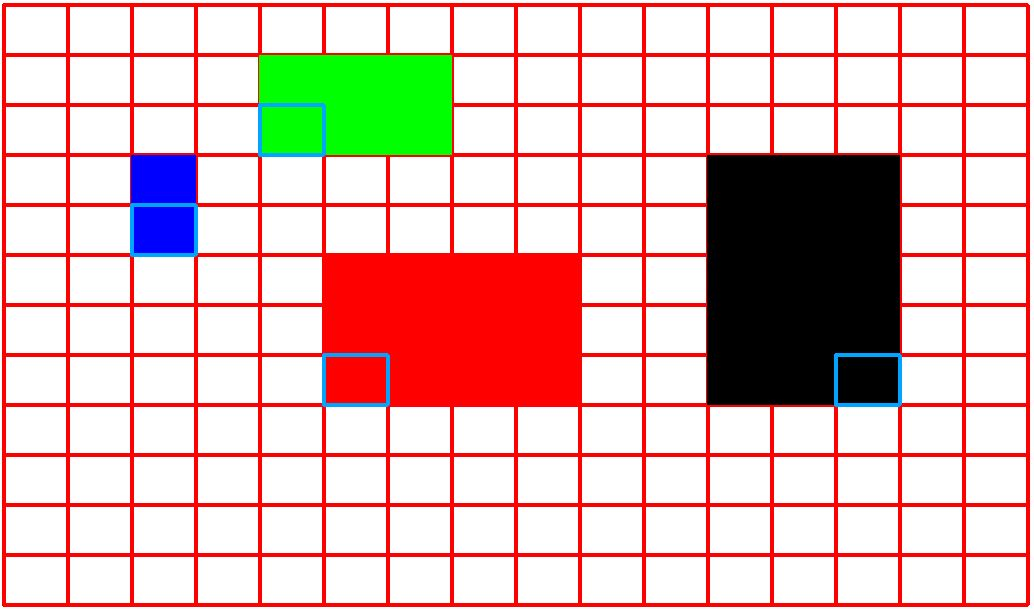
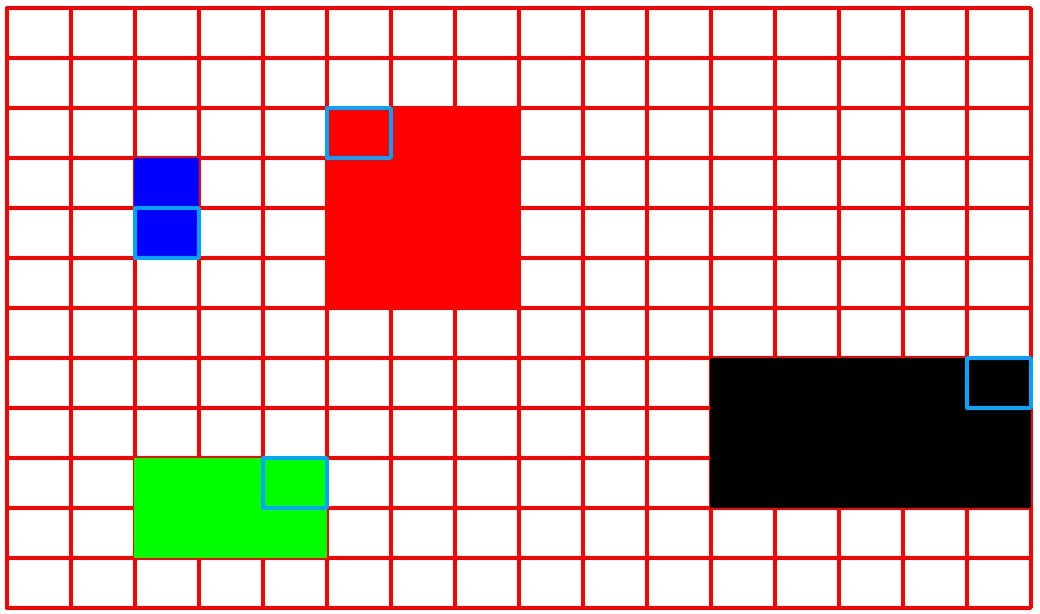
Dependency Creator

diff --git a/PythonCBS/All Codes/placer.py b/PythonCBS/All Codes/placer.py
@@ -30,13 +30,12 @@ THIS PLACEMENT METHOD IS ONLY APPLICABLE FOR RECTANGULAR JOBS THAT HAVE THE SAME
 CHUNKS IN EACH ROW AND COLUMN
 """
 # # inputs
-test_case = 'Tall Box 5 Jobs'
+test_case = 'Tall Box'
 num_robots = 4
 floor_size = [8,6]
-folder_name = "Tall_Box_5_Jobs"
+folder_name = "Tall_Box_Scale_1"
 
-robot_starting_positions_all = [[0,0],[1,0],[2,0],[3,0],[4,0],[5,0],[6,0],[7,0],[8,0],[9,0],[10,0],[11,0]]
-robot_starting_positions = robot_starting_positions_all[:num_robots]
+track_time = True
 
 if test_case == 'Tall Box':
     # four equal jobs of 6 chunks
@@ -47,6 +46,58 @@ if test_case == 'Tall Box':
     chunk_print_time = [2253., 1899., 2253., 1899., 2253., 1899., 2253., 1899.,\
                         2929., 2490., 2929., 2490., 2929., 2490., 2929., 2490.,  \
                         1429., 1236., 1429., 1236., 1429., 1236., 1429., 1236.]
+        
+elif test_case == 'Tall Box .5x':
+    #Scaled x1.5
+    chunk_dependencies = [[], [0], [], [2], [0], [1, 4], [2], [3, 6], [4], [5, 8], [6], [7, 10]]
+    chunk_job = [[0], [0], [1], [1], [0], [0], [1], [1], [0], [0], [1], [1]]
+    chunk_print_time = [2253., 1899., 2253., 1899.,\
+                        2929., 2490., 2929., 2490.,\
+                        1429., 1236., 1429., 1236.]
+    num_robots = int(num_robots*.5)
+    floor_size = [int(floor_size[0]*.5),int(floor_size[1]*.5)]       
+
+elif test_case == 'Tall Box 1.5x':
+    #Scaled x1.5
+    chunk_dependencies = [[],[0],[],[2],[],[4],[],[6],[],[8],[],[10],\
+                          [0],[1,12],[2],[3,14],[4],[5,16],[6],[7,18],[8],[9,20],[10],[11,22],\
+                          [12],[13,24],[14],[15,26],[16],[17,28],[18],[19,30],[20],[21,32],[22],[23,34]]
+    chunk_job = [[0],[0],[1],[1],[2],[2],[3],[3],[4],[4],[5],[5],[0],[0],[1],[1],[2],[2],[3],[3],[4],[4],[5],[5],[0],[0],[1],[1],[2],[2],[3],[3],[4],[4],[5],[5]]
+    chunk_print_time = [2253., 1899., 2253., 1899., 2253., 1899., 2253., 1899., 2253., 1899., 2253., 1899.,\
+                        2929., 2490., 2929., 2490., 2929., 2490., 2929., 2490., 2929., 2490., 2929., 2490.,\
+                        1429., 1236., 1429., 1236., 1429., 1236., 1429., 1236., 1429., 1236., 1429., 1236.]
+    num_robots = int(num_robots*1.5)
+    floor_size = [int(floor_size[0]*1.5),int(floor_size[1]*1.5)]
+    
+elif test_case == 'Tall Box 2x':
+    #Scaled x2
+    chunk_dependencies = [[],[0],[],[2],[],[4],[],[6],[],[8],[],[10],[],[12],[],[14],\
+                          [0],[1,16],[2],[3,18],[4],[5,20],[6],[7,22],[8],[9,24],[10],[11,26],[12],[13,28],[14],[15,30],\
+                          [16],[17,32],[18],[19,34],[20],[21,36],[22],[23,38],[24],[25,40],[26],[27,42],[28],[29,44],[30],[31,46]]
+    chunk_job = [[0],[0],[1],[1],[2],[2],[3],[3],[4],[4],[5],[5],[6],[6],[7],[7],[0],[0],[1],[1],[2],[2],[3],[3],[4],[4],[5],[5],[6],[6],[7],[7],[0],[0],[1],[1],[2],[2],[3],[3],[4],[4],[5],[5],[6],[6],[7],[7]]
+    chunk_print_time = [2253., 1899., 2253., 1899., 2253., 1899., 2253., 1899., 2253., 1899., 2253., 1899., 2253., 1899., 2253., 1899.,\
+                        2929., 2490., 2929., 2490., 2929., 2490., 2929., 2490., 2929., 2490., 2929., 2490., 2929., 2490., 2929., 2490.,\
+                        1429., 1236., 1429., 1236., 1429., 1236., 1429., 1236., 1429., 1236., 1429., 1236., 1429., 1236., 1429., 1236.]
+    num_robots = int(num_robots*2)
+    floor_size = [int(floor_size[0]*2),int(floor_size[1]*2)]
+    
+elif test_case == 'Tall Box 5x':
+    #Scaled x5
+    chunk_dependencies = [[],[0],[],[2],[],[4],[],[6],[],[8],[],[10],[],[12],[],[14],[],[16],[],[18],[],\
+                          [20],[],[22],[],[24],[],[26],[],[28],[],[30],[],[32],[],[34],[],[36],[],[38],\
+                          [0],[1, 40],[2],[3, 42],[4],[5, 44],[6],[7, 46],[8],[9, 48],[10],[11, 50],[12],[13, 52],[14],[15, 54],[16],[17, 56],[18],[19, 58],\
+                          [20],[21, 60],[22],[23, 62],[24],[25, 64],[26],[27, 66],[28],[29, 68],[30],[31, 70],[32],[33, 72],[34],[35, 74],[36],[37, 76],[38],[39, 78],
+                          [40],[41, 80],[42],[43, 82],[44],[45, 84],[46],[47, 86],[48],[49, 88],[50],[51, 90],[52],[53, 92],[54],[55, 94],[56],[57, 96],[58],[59, 98],
+                          [60],[61, 100],[62],[63, 102],[64],[65, 104],[66],[67, 106],[68],[69, 108],[70],[71, 110],[72],[73, 112],[74],[75, 114],[76],[77, 116],[78],[79, 118]]
+    chunk_job = [[0],[0],[1],[1],[2],[2],[3],[3],[4],[4],[5],[5],[6],[6],[7],[7],[8],[8],[9],[9],[10],[10],[11],[11],[12],[12],[13],[13],[14],[14],[15],[15],[16],[16],[17],[17],[18],[18],[19],[19],\
+                 [0],[0],[1],[1],[2],[2],[3],[3],[4],[4],[5],[5],[6],[6],[7],[7],[8],[8],[9],[9],[10],[10],[11],[11],[12],[12],[13],[13],[14],[14],[15],[15],[16],[16],[17],[17],[18],[18],[19],[19],\
+                 [0],[0],[1],[1],[2],[2],[3],[3],[4],[4],[5],[5],[6],[6],[7],[7],[8],[8],[9],[9],[10],[10],[11],[11],[12],[12],[13],[13],[14],[14],[15],[15],[16],[16],[17],[17],[18],[18],[19],[19]]
+    
+    chunk_print_time = [2253., 1899., 2253., 1899., 2253., 1899., 2253., 1899., 2253., 1899., 2253., 1899., 2253., 1899., 2253., 1899., 2253., 1899., 2253., 1899., 2253., 1899., 2253., 1899., 2253., 1899., 2253., 1899., 2253., 1899., 2253., 1899., 2253., 1899., 2253., 1899., 2253., 1899., 2253., 1899.,\
+                        2929., 2490., 2929., 2490., 2929., 2490., 2929., 2490., 2929., 2490., 2929., 2490., 2929., 2490., 2929., 2490., 2929., 2490., 2929., 2490., 2929., 2490., 2929., 2490., 2929., 2490., 2929., 2490., 2929., 2490., 2929., 2490., 2929., 2490., 2929., 2490., 2929., 2490., 2929., 2490.,\
+                        1429., 1236., 1429., 1236., 1429., 1236., 1429., 1236., 1429., 1236., 1429., 1236., 1429., 1236., 1429., 1236., 1429., 1236., 1429., 1236., 1429., 1236., 1429., 1236., 1429., 1236., 1429., 1236., 1429., 1236., 1429., 1236., 1429., 1236., 1429., 1236., 1429., 1236., 1429., 1236.]
+    num_robots = int(num_robots*5)
+    floor_size = [int(floor_size[0]*5),int(floor_size[1]*5)]
         
 elif test_case == 'Tall Box 5 Jobs':
     # six equal jobs of 6 chunks
@@ -118,6 +169,9 @@ elif test_case == 'Benchy':
                         561., 217., 8., 8.]
 else:
     print("Check Test Case Name")
+    
+robot_starting_positions_all = [[0,0],[1,0],[2,0],[3,0],[4,0],[5,0],[6,0],[7,0],[8,0],[9,0],[10,0],[11,0],[12,0],[13,0],[14,0],[15,0],[16,0],[17,0],[18,0],[19,0]]
+robot_starting_positions = robot_starting_positions_all[:num_robots]
 
     
 def find_initial_chunks(number_jobs, chunk_dependencies, chunk_job):
@@ -425,6 +479,11 @@ if __name__ == '__main__':
     complete_filename = os.path.join(filepath, filename +".txt")
     config_complete_filename = os.path.join(filepath, config_filename +".txt")
     
+    #track time
+    if track_time == True:
+        before = time()
+
+    
     #find valid configurations
     print_time_pop = [[]]*num_pop
     population_tuple = []
@@ -620,3 +679,15 @@ if __name__ == '__main__':
         print("Converged in " + str(generation-1) + " generations!")
         with open(config_complete_filename, "a+") as file:
             file.write("Converged in " + str(generation) + " generations!")
+            
+    #track time
+    if track_time == True:
+        after = time()
+        time_string = "Time elapsed: {time_passed:.4f} second(s)"
+        time_string = time_string.format(time_passed = (after-before))
+        print(time_string)
+        with open(config_complete_filename, "a+") as file:
+            file.write(time_string)
+    
+    
+    

diff --git a/PythonCBS/All Codes/scheduler.py b/PythonCBS/All Codes/scheduler.py
@@ -17,7 +17,7 @@ import copy
 
 from planner import Planner
 
-visualization = True
+visualization = False
 
 class tuning_variables:
     #the time in minutes it takes for a robot to move from one grid space to another
@@ -195,7 +195,7 @@ def schedule(robot_starting_positions, floor_size, chunk_dependencies, chunk_job
         
         #FOR TESTING
         # print("Printable chunks" + str(printable_chunks))
-        print("Elapsed Time: "+ str(elapsed_time))
+        # print("Elapsed Time: "+ str(elapsed_time))
         
         # if printable_chunks == [12]:
         #     print("Debug Here")
@@ -632,39 +632,39 @@ if __name__ == '__main__':
     #                     2929., 2490., 2929., 2490., 2929., 2490., 2929., 2490.,  \
     #                     1429., 1236., 1429., 1236., 1429., 1236., 1429., 1236.]
     
-    #rotated tall box
-    chunk_dependencies = [[],[0, 2],[],[],[3, 5],[],[],[6, 8], [],[],[9, 11],[],\
-                          [0],[1,12,14],[2],[3],[4,15,17],[5],[6],[7,18,20],[8],[9],[10,21,23],[11]]
+    # #rotated tall box
+    # chunk_dependencies = [[],[0, 2],[],[],[3, 5],[],[],[6, 8], [],[],[9, 11],[],\
+    #                       [0],[1,12,14],[2],[3],[4,15,17],[5],[6],[7,18,20],[8],[9],[10,21,23],[11]]
         
-    chunk_job = [[0],[0],[0],[1],[1],[1],[2],[2],[2],[3],[3],[3],[0],[0],[0],[1],[1],[1],[2],[2],[2],[3],[3],[3]]
-    chunk_print_time = [2253., 2859., 1552., 2253., 2859., 1552., 2253., 2859., 1552., 2253., 2859., 1552., \
-            1894, 2598, 1194, 1894, 2598, 1194, 1894, 2598, 1194, 1894, 2598, 1194]
+    # chunk_job = [[0],[0],[0],[1],[1],[1],[2],[2],[2],[3],[3],[3],[0],[0],[0],[1],[1],[1],[2],[2],[2],[3],[3],[3]]
+    # chunk_print_time = [2253., 2859., 1552., 2253., 2859., 1552., 2253., 2859., 1552., 2253., 2859., 1552., \
+    #         1894, 2598, 1194, 1894, 2598, 1194, 1894, 2598, 1194, 1894, 2598, 1194]
         
-    chunk_positions = [[7, 9],
-     [7, 8],
-     [7, 7],
-     [12, 7],
-     [12, 8],
-     [12, 9],
-     [10, 1],
-     [11, 1],
-     [12, 1],
-     [4, 1],
-     [5, 1],
-     [6, 1],
-     [8, 9],
-     [8, 8],
-     [8, 7],
-     [11, 7],
-     [11, 8],
-     [11, 9],
-     [10, 2],
-     [11, 2],
-     [12, 2],
-     [4, 2],
-     [5, 2],
-     [6, 2]]
-    job_directions = [1, 3, 2, 2]
+    # chunk_positions = [[7, 9],
+    #  [7, 8],
+    #  [7, 7],
+    #  [12, 7],
+    #  [12, 8],
+    #  [12, 9],
+    #  [10, 1],
+    #  [11, 1],
+    #  [12, 1],
+    #  [4, 1],
+    #  [5, 1],
+    #  [6, 1],
+    #  [8, 9],
+    #  [8, 8],
+    #  [8, 7],
+    #  [11, 7],
+    #  [11, 8],
+    #  [11, 9],
+    #  [10, 2],
+    #  [11, 2],
+    #  [12, 2],
+    #  [4, 2],
+    #  [5, 2],
+    #  [6, 2]]
+    # job_directions = [1, 3, 2, 2]
     
     # job_directions = [2, 1, 3, 1]
     # chunk_positions = [[2, 9], [3, 9], [4, 9], [8, 9], [8, 8], [8, 7], [6, 2], [6, 3], [6, 4], [10, 5], [10, 4], [10, 3], [2, 10], [3, 10], [4, 10], [9, 9], [9, 8], [9, 7], [5, 2], [5, 3], [5, 4], [11, 5], [11, 4], [11, 3]]
@@ -749,6 +749,37 @@ if __name__ == '__main__':
     #              [1,5],[2,5],[3,5],]
     
     # placement_visualizer.placement_vis(floor_size, chunk_positions, chunk_job)
+    
+    #Resized Benchy
+    chunk_positions = [[9, 1],
+     [9, 2],
+     [8, 9],
+     [8, 8],
+     [12, 9],
+     [12, 8],
+     [1, 6],
+     [1, 7],
+     [8, 1],
+     [8, 2],
+     [9, 9],
+     [9, 8],
+     [13, 9],
+     [13, 8],
+     [7, 1],
+     [7, 2],
+     [10, 9],
+     [10, 8]]
+    
+    job_directions = [3, 1, 1, 2]
+    
+    chunk_dependencies = [[],[0],[],[2],[],[4],[],[6],\
+                          [0],[1,8],[2],[3,10],[4],[5,12],\
+                          [8],[9,14],[10],[11,16]]
+    chunk_job = [[0],[0],[1],[1],[2],[2],[3],[3],[0],[0],[1],[1],[2],[2],[0],[0],[1],[1]]
+    chunk_print_time = [1152., 655., 1075., 722., 279., 86., 1139., 81.,\
+                        2039., 1496., 716., 564., 561., 146.,  \
+                        561., 217., 8., 8.]
+    
         
     chunk_number = len(chunk_job)
     # job_directions = [0,2,1,1]   

diff --git a/PythonCBS/All Codes/visualize_results.py b/PythonCBS/All Codes/visualize_results.py
@@ -16,11 +16,11 @@ from scheduler import schedule
 #input starting chunks direction
 # job_directions = [[2, 2, 2, 2]]
 
-job_starting_posiitons =array([[ 7,  9],
-       [12,  7],
-       [10,  1],
-       [ 4,  1]])
-job_directions = [[1, 3, 2, 2]]
+job_starting_posiitons = array([[15,  7],
+       [ 5,  2],
+       [ 4,  9],
+       [ 2,  4]])
+job_directions = [[3, 2, 3, 0]]
 
 #other inputs
 #Tall Job
@@ -41,23 +41,23 @@ job_directions = [[1, 3, 2, 2]]
 #                       [16],[17,32],[18],[19,34],[20],[21,36],[22],[23,38],[24],[25,40],[26],[27,42],[28],[29,44],[30],[31,46]]
 # chunk_job = [[0],[0],[1],[1],[2],[2],[3],[3],[4],[4],[5],[5],[6],[6],[7],[7],[0],[0],[1],[1],[2],[2],[3],[3],[4],[4],[5],[5],[6],[6],[7],[7],[0],[0],[1],[1],[2],[2],[3],[3],[4],[4],[5],[5],[6],[6],[7],[7]]
 
-#rotated tall box
-chunk_dependencies = [[],[0, 2],[],[],[3, 5],[],[],[6, 8], [],[],[9, 11],[],\
-                      [0],[1,12,14],[2],[3],[4,15,17],[5],[6],[7,18,20],[8],[9],[10,21,23],[11]]
+# #rotated tall box
+# chunk_dependencies = [[],[0, 2],[],[],[3, 5],[],[],[6, 8], [],[],[9, 11],[],\
+#                       [0],[1,12,14],[2],[3],[4,15,17],[5],[6],[7,18,20],[8],[9],[10,21,23],[11]]
     
-chunk_job = [[0],[0],[0],[1],[1],[1],[2],[2],[2],[3],[3],[3],[0],[0],[0],[1],[1],[1],[2],[2],[2],[3],[3],[3]]
+# chunk_job = [[0],[0],[0],[1],[1],[1],[2],[2],[2],[3],[3],[3],[0],[0],[0],[1],[1],[1],[2],[2],[2],[3],[3],[3]]
 
-# #Pyramid
-# chunk_dependencies = [[],[0,2],[],[],[3,5],[],[],[6],[], \
-#                       [0],[1,7,11],[2],[3],[4,12,14],[5],[6],[7,15],[8], \
-#                       [9],[10,18,20],[11],[12],[13,21,23],[14],[15],[16,24], \
-#                       [18],[19,26,28],[20],[21],[22,29,31],[23], \
-#                       [26],[27,32,34],[28]]
-# chunk_job = [[0],[0],[0],[1],[1],[1],[2],[2],[3],\
-#               [0],[0],[0],[1],[1],[1],[2],[2],[3],\
-#               [0],[0],[0],[1],[1],[1],[2],[2], \
-#               [0],[0],[0],[1],[1],[1],\
-#               [0],[0],[0]]
+#Pyramid
+chunk_dependencies = [[],[0,2],[],[],[3,5],[],[],[6],[], \
+                      [0],[1,7,11],[2],[3],[4,12,14],[5],[6],[7,15],[8], \
+                      [9],[10,18,20],[11],[12],[13,21,23],[14],[15],[16,24], \
+                      [18],[19,26,28],[20],[21],[22,29,31],[23], \
+                      [26],[27,32,34],[28]]
+chunk_job = [[0],[0],[0],[1],[1],[1],[2],[2],[3],\
+              [0],[0],[0],[1],[1],[1],[2],[2],[3],\
+              [0],[0],[0],[1],[1],[1],[2],[2], \
+              [0],[0],[0],[1],[1],[1],\
+              [0],[0],[0]]
 
 # #Resized Benchy
 # chunk_dependencies = [[],[0],[],[2],[],[4],[],[6],\

diff --git a/PythonCBS/All Codes/dependency_creator.py b/PythonCBS/All Codes/dependency_creator.py
@@ -1,0 +1,29 @@
+"""
+for creating dependencies for many, indentical rectangular chunks
+"""
+import numpy as np
+
+num_jobs = 2
+num_chunks_in_row = 2
+num_chunks_in_column = 3
+
+num_chunks = num_jobs*num_chunks_in_column*num_chunks_in_row
+
+chunk_dependencies = [[]]*num_chunks
+chunk_job = [[]]*num_chunks
+
+for chunk in range(0,num_chunks):
+    if num_chunks_in_row == 2:
+        if chunk < num_jobs*num_chunks_in_row:
+            if chunk%2 != 0:
+                chunk_dependencies[chunk] = [chunk-1]
+        else:
+            if chunk%2 == 0:
+                chunk_dependencies[chunk] = [chunk-(num_jobs*num_chunks_in_row)]
+            else:
+                chunk_dependencies[chunk] = [chunk-(num_jobs*num_chunks_in_row),chunk-1]
+    chunk_job[chunk] = [int(np.floor((chunk%(num_jobs*num_chunks_in_row))/num_chunks_in_row))]
+    
+    
+        
+
